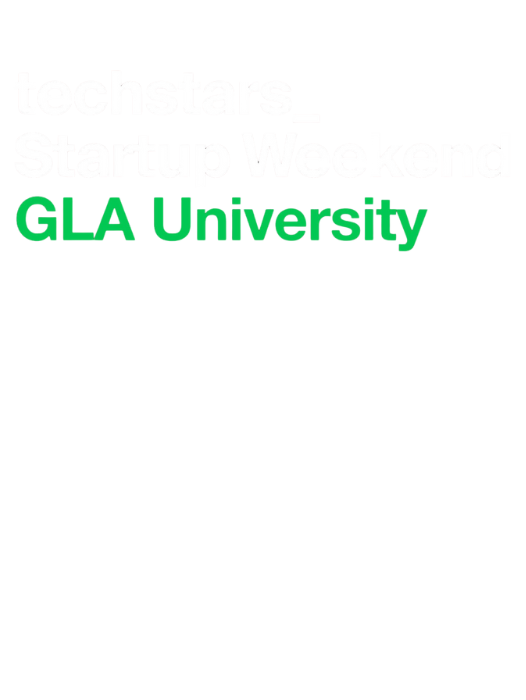
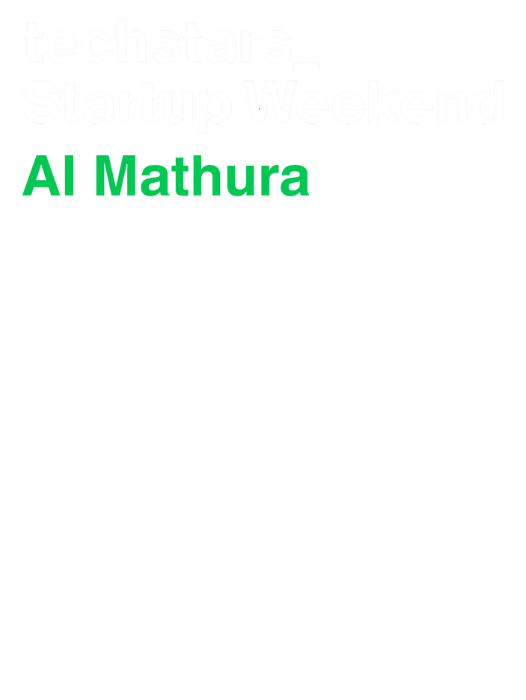
changes the name of the event

Changed region(s): [[0.0304, 0.21, 0.8213, 0.36]]

diff --git a/components/sections/home1/section1.tsx b/components/sections/home1/section1.tsx
@@ -18,7 +18,7 @@ export default function Section1() {
 								<div className="space16" />
 								<h1 className="text-anime-style-3">
 									TechStars Startup Weekend <br className="d-lg-block d-none" />
-									GLAU
+									AI Mathura
 								</h1>
 								<div className="space16" />
 								<p data-aos="fade-left" data-aos-duration={900}>
